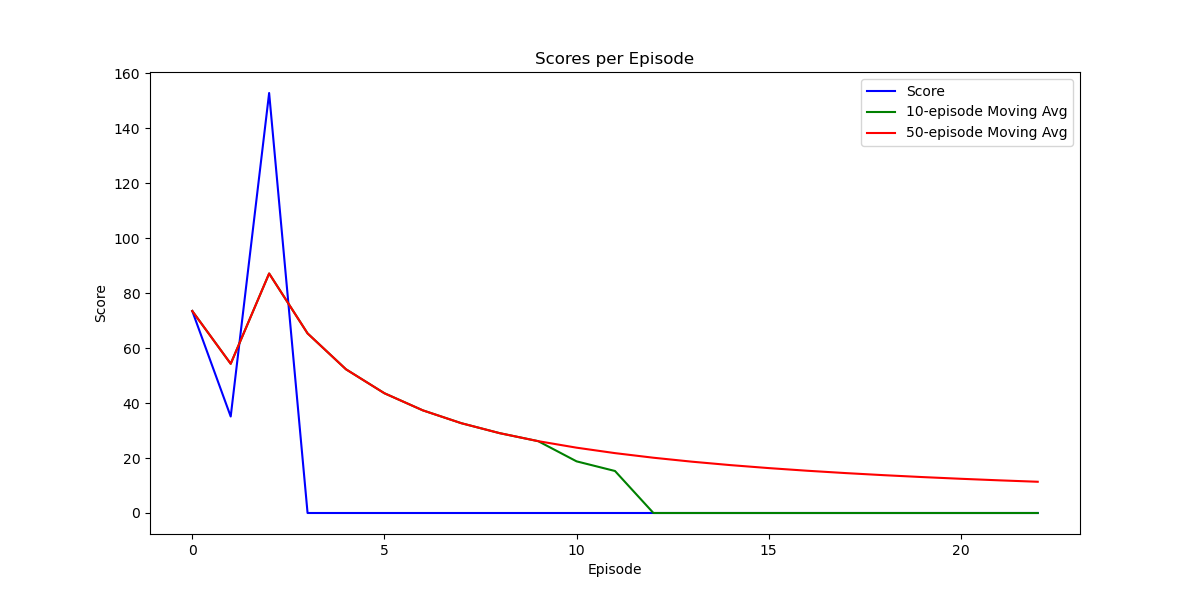
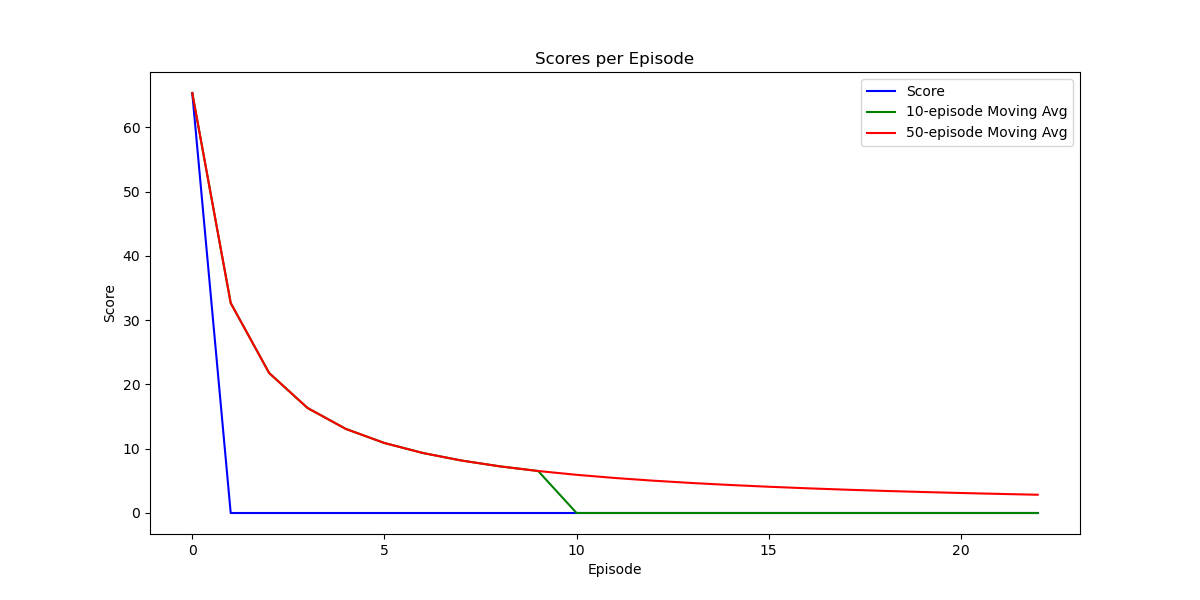
Fix frame preprocessing bug and initialize frame queue

diff --git a/policynet_v1/policynet_v1.py b/policynet_v1/policynet_v1.py
@@ -88,7 +88,19 @@ transform = T.Compose(
 
 def preprocess(frame):
     frame = transform(frame)
-    return frame.unsqueeze(0)
+    return frame.squeeze(0)  # 배치 차원 제거
+
+
+# 이전 프레임을 저장하기 위한 큐
+from collections import deque
+
+frame_queue = deque(maxlen=4)
+
+
+# 프레임을 초기화하는 함수
+def init_frames():
+    for _ in range(4):
+        frame_queue.append(torch.zeros(84, 84))
 
 
 # 체크포인트 로드 함수
@@ -104,7 +116,7 @@ def load_checkpoint(checkpoint_dir=checkpoint_dir):
 class PolicyNet(nn.Module):
     def __init__(self, num_actions):
         super(PolicyNet, self).__init__()
-        self.conv1 = nn.Conv2d(1, 32, kernel_size=8, stride=4)
+        self.conv1 = nn.Conv2d(4, 32, kernel_size=8, stride=4)
         self.conv2 = nn.Conv2d(32, 64, kernel_size=4, stride=2)
         self.conv3 = nn.Conv2d(64, 64, kernel_size=3, stride=1)
 
@@ -114,7 +126,7 @@ class PolicyNet(nn.Module):
     def _feature_size(self):
         return (
             nn.Sequential(self.conv1, self.conv2, self.conv3)
-            .forward(torch.zeros(1, 1, 84, 84))
+            .forward(torch.zeros(1, 4, 84, 84))
             .view(1, -1)
             .size(1)
         )
@@ -149,7 +161,7 @@ class PolicyNet(nn.Module):
 class ValueNet(nn.Module):
     def __init__(self):
         super(ValueNet, self).__init__()
-        self.conv1 = nn.Conv2d(1, 32, kernel_size=8, stride=4)
+        self.conv1 = nn.Conv2d(4, 32, kernel_size=8, stride=4)
         self.conv2 = nn.Conv2d(32, 64, kernel_size=4, stride=2)
         self.conv3 = nn.Conv2d(64, 64, kernel_size=3, stride=1)
 
@@ -159,16 +171,17 @@ class ValueNet(nn.Module):
     def _feature_size(self):
         return (
             nn.Sequential(self.conv1, self.conv2, self.conv3)
-            .forward(torch.zeros(1, 1, 84, 84))
+            .forward(torch.zeros(1, 4, 84, 84))
             .view(1, -1)
             .size(1)
         )
 
     def forward(self, x):
+        x = x.unsqueeze(0)
         x = F.relu(self.conv1(x))
         x = F.relu(self.conv2(x))
         x = F.relu(self.conv3(x))
-        x = x.reshape(x.size(0), -1)  # 데이터 평탄화
+        x = x.view(x.size(0), -1)  # 데이터 평탄화
         x = F.relu(self.fc1(x))
         return self.fc2(x)
 
@@ -180,14 +193,19 @@ def collect_trajectory(env, policy_net):
     state, _ = env.reset()
     done = False
     steps = 0
-    state = preprocess(state)
+    init_frames()  # 프레임 큐 초기화
+    frame_queue.append(preprocess(state))  # 첫 프레임 추가
 
     while not done:
-        action, logp = policy_net.get_action_and_logp(state)
+        # 현재 상태를 4개 프레임으로 구성
+        current_state = torch.stack(list(frame_queue), dim=0)
+
+        action, logp = policy_net.get_action_and_logp(current_state)
         next_state, reward, terminated, truncated, info = env.step(action)
         done = terminated or truncated
+        frame_queue.append(preprocess(next_state))  # 새 프레임 추가
 
-        state_list.append(state)
+        state_list.append(current_state)
         action_list.append(action)
         reward_list.append(reward)
         dones_list.append(done)
@@ -217,7 +235,7 @@ def main():
     policy_optimizer = optim.Adam(policy_net.parameters(), lr=0.01)
     value_optimizer = optim.Adam(value_net.parameters(), lr=0.01)
 
-    print_interval = 20
+    print_interval = 10
     score = 0.0
     average_score = 0.0
 
@@ -234,10 +252,10 @@ def main():
         start_episode = checkpoint["episode"]
         scores = loaded_scores  # 이전 점수 이력 로드
 
-    checkpoint_interval = 100  # 체크포인트 저장 간격
+    checkpoint_interval = 10  # 체크포인트 저장 간격
 
     num_iter = 3001
-    num_traj = 1
+    num_traj = 5
 
     for n_epi in range(start_episode, num_iter):
         traj_list = [collect_trajectory(env, policy_net) for _ in range(num_traj)]
